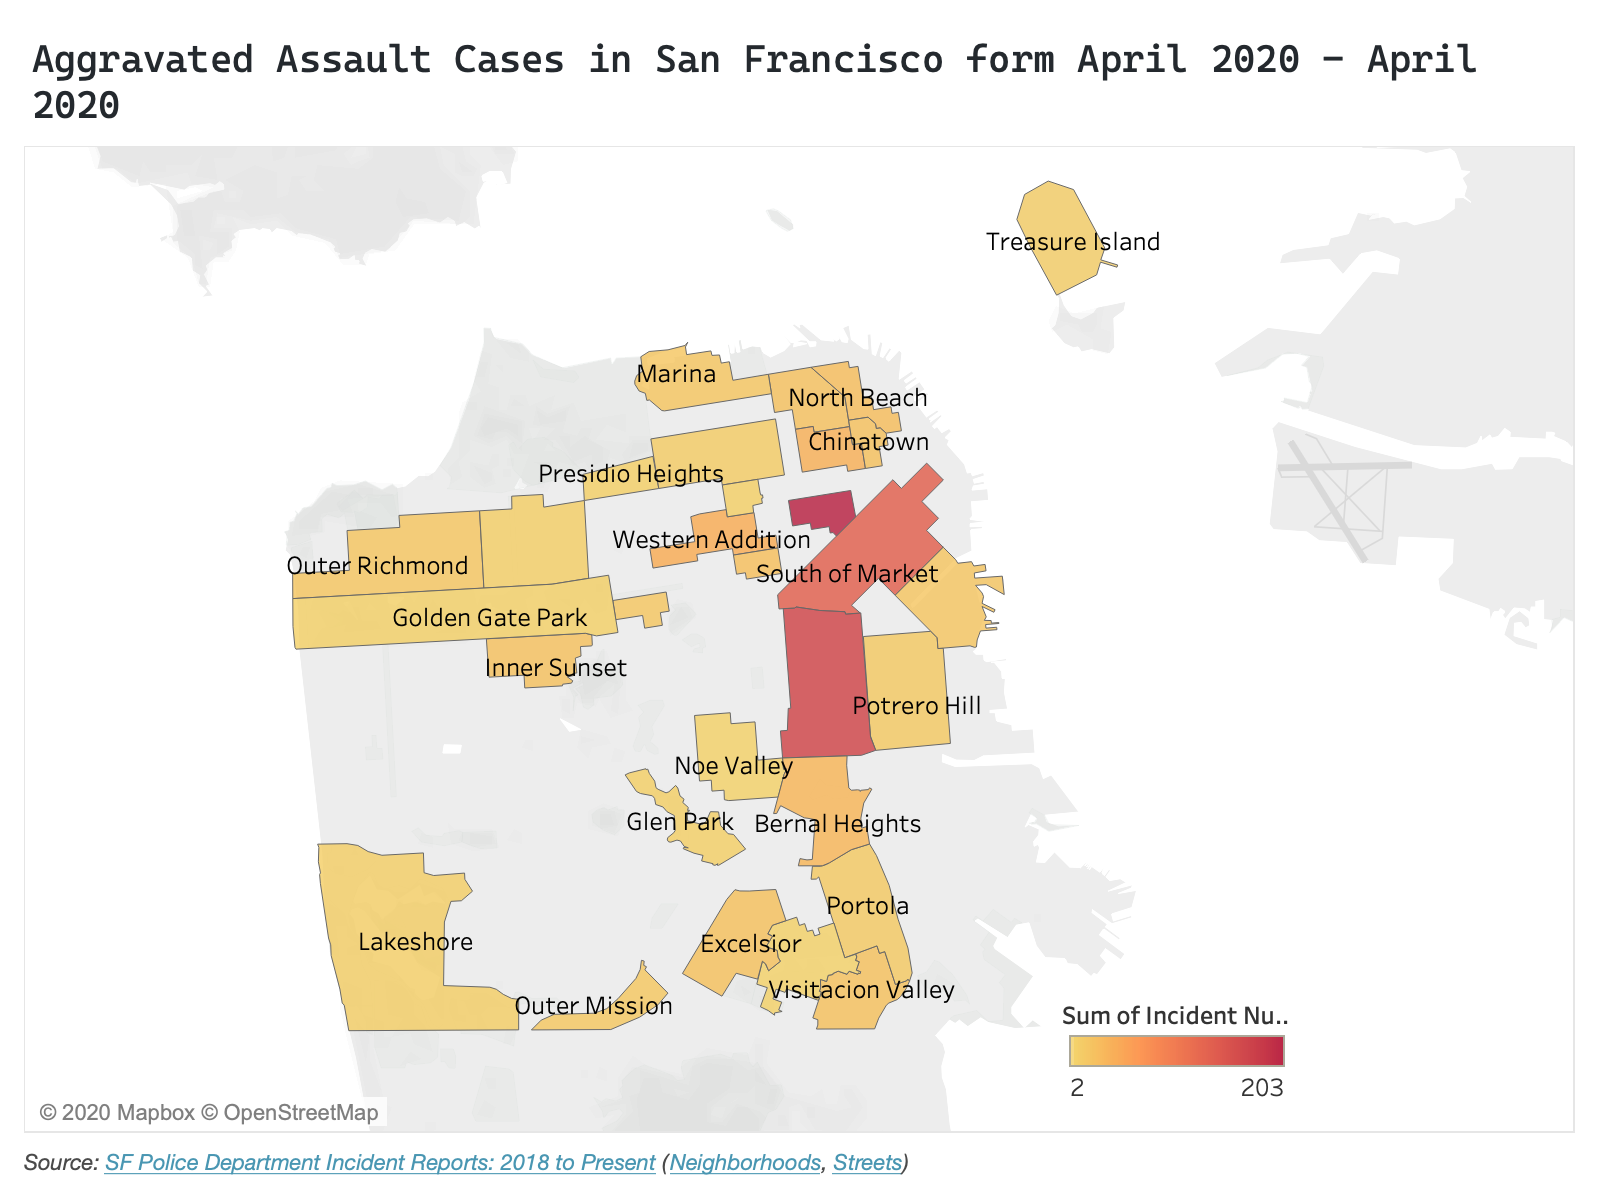
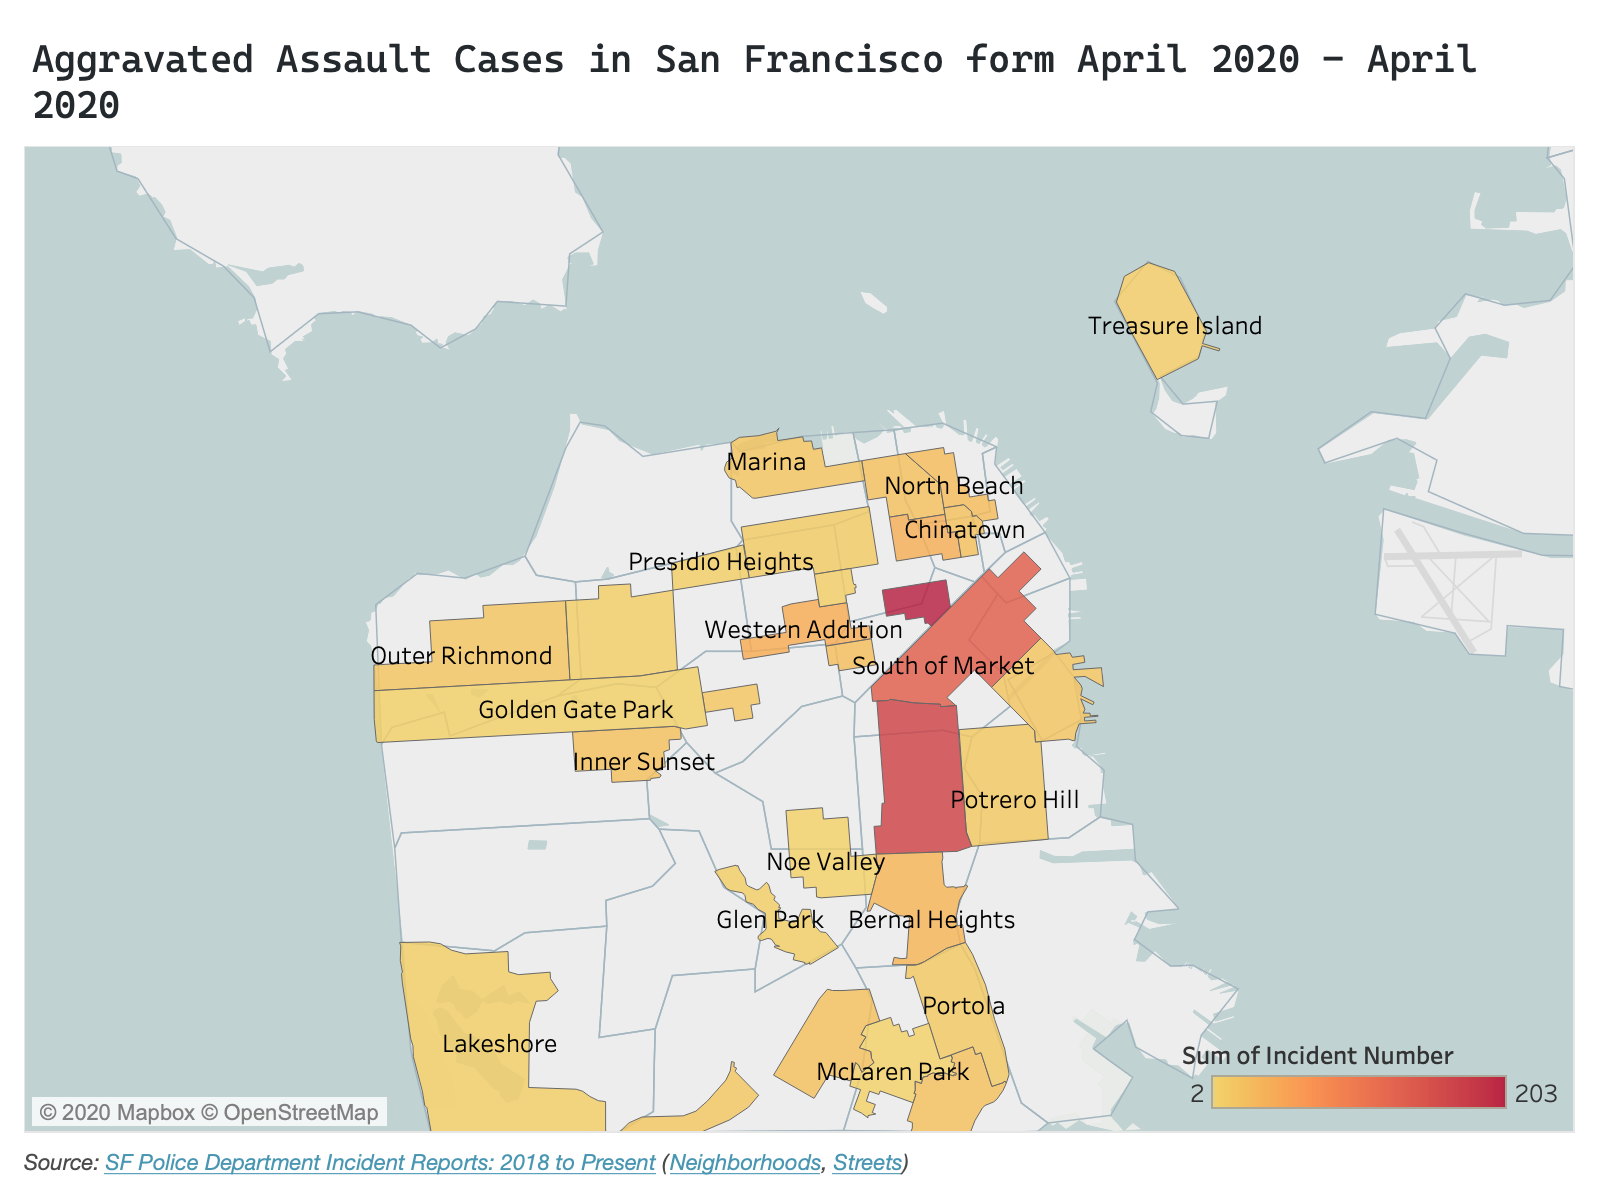
minor change in the wrangling section

diff --git a/prototype2.html b/prototype2.html
@@ -179,6 +179,7 @@
         <p>
           <ul>
             <li>The answer to the second question is difficult to answer from the prototype without some filtering. I have implemented filtering based on the legend which can be accessed by clicking on the legend color box of the particular month. After filtering the visualization, we can see that for the month of April, the number of cases are relatively low than the previous month. For the month of March, as the data is for the whole month and not from the date of the lockdown (there is a lie factor), we cannot say if the lockdown change the number of cases. Some data points overlaps each other which will be fixed before the final release. Also, as the data is dense, creating a scatter plot matrix or a bar chart (for the final release) to answer this question will be a better option.</li>
+            <li><strong>Note</strong>: There are two data point (outliers) of whose neighborhoods are blank and will be removed before the final release.</li>
           </ul>
         </p>
 
@@ -207,6 +208,8 @@
 Filtered By:    Incident Datetime between "Feb 1, 2020" and "April 28, 2020",
                 Incident Category as "Assault"
                 Incident Subcategory as "Aggravated Assault"
+                Latitude is "not blank"
+                Longitude is "not blank"
 
 Basemap:        <a href="https://data.sfgov.org/Geographic-Locations-and-Boundaries/SF-Find-Neighborhoods/pty2-tcw4" target="_blank" style="color: cornflowerblue;">SF Find Neighborhoods</a>
 Streets:        <a href="https://data.sfgov.org/browse?category=Geographic+Locations+and+Boundaries" target="_blank" style="color: cornflowerblue;">SF Street names</a>
